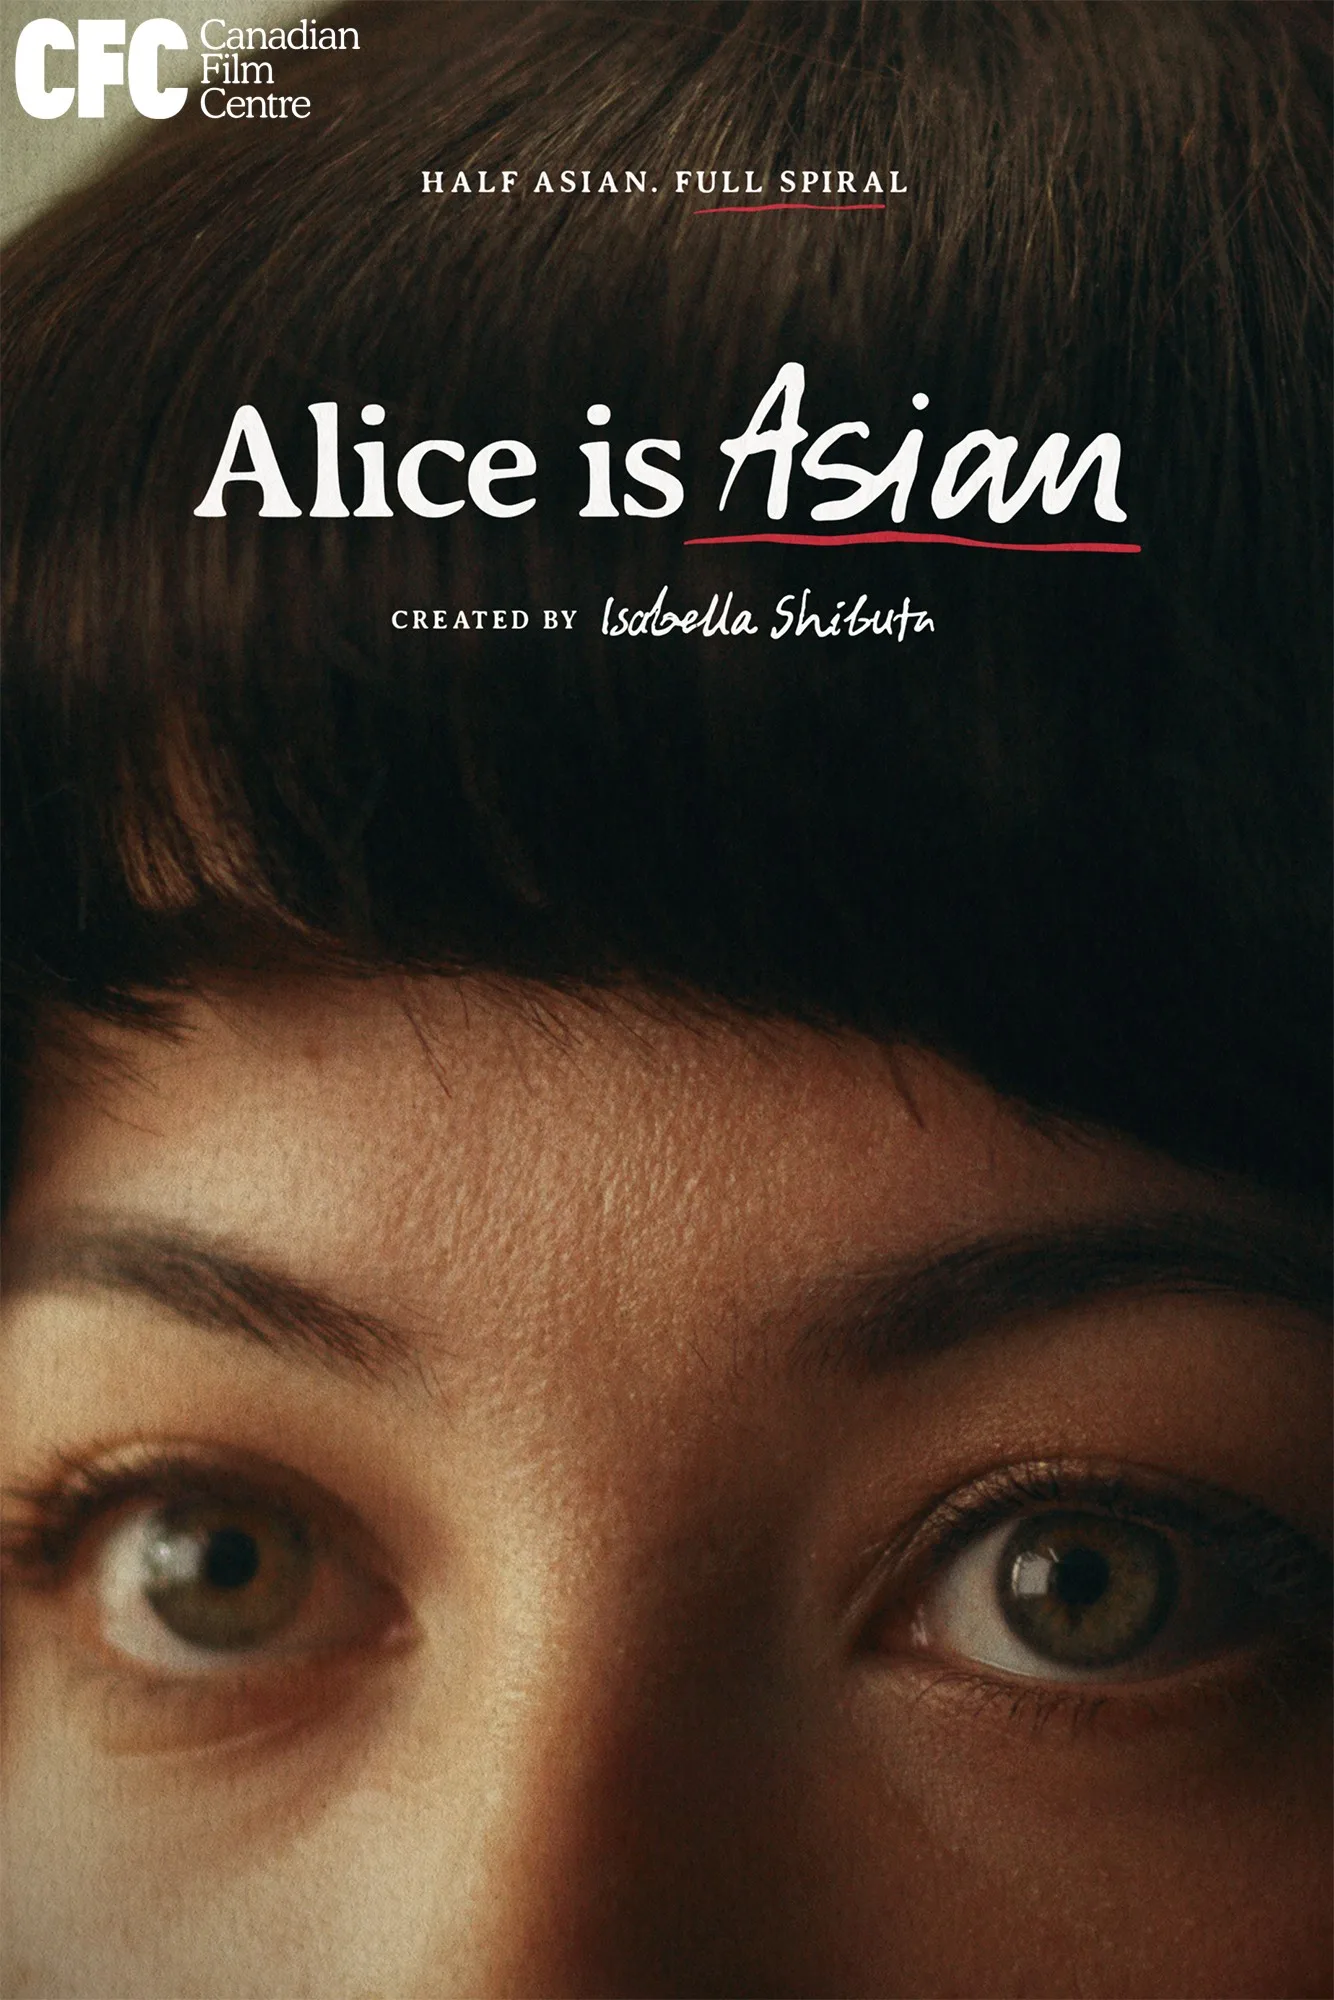
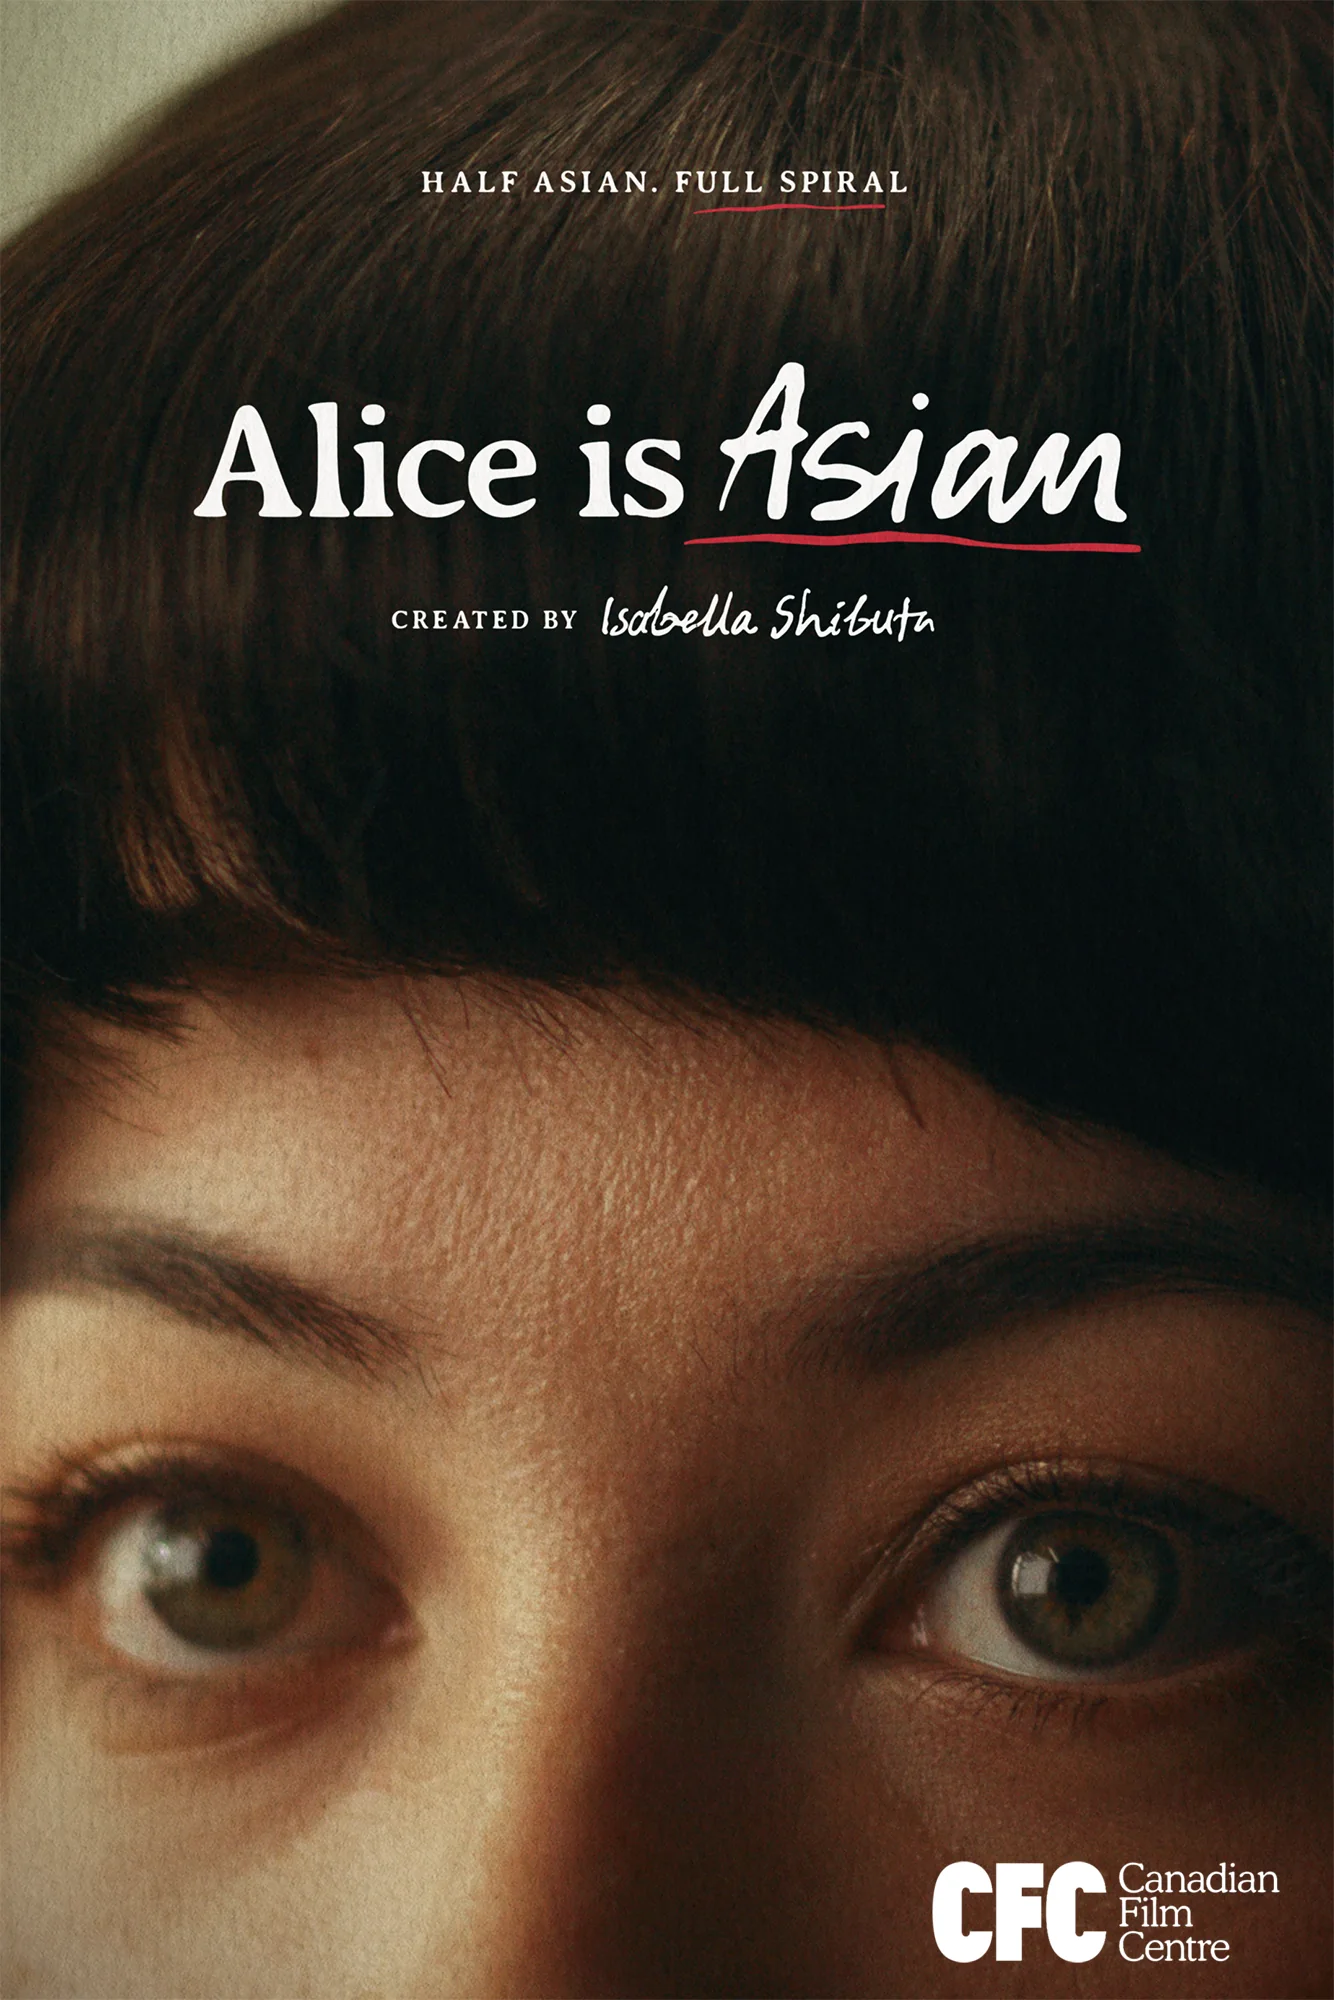
Update three posters and add three new projects
Refresh You Are Here (festival laurels), Alice is Asian (CFC logo) and
Cows Come Home (CSA laurels) with the latest artwork.

These posters carry credits at their top and bottom edges, which the
12/16 project tiles crop away. Add an optional posterPosition field so
individual posters can bias that crop and keep their laurels and logos
intact, leaving every other poster centred as before.

Add Go Live, A Family Affair and Undressing Them as poster-only entries.
Undressing Them's key art is landscape, so it uses a title-only crop in
the tile and the full wide version in the modal via posterFull. Make the
modal's Released row conditional so entries without credits render clean.

Changed region(s): [[0.6762, 0.93, 0.9528, 0.992], [0.0, 0.0, 0.2766, 0.062]]

diff --git a/src/components/ProjectsCarousel.jsx b/src/components/ProjectsCarousel.jsx
@@ -5,9 +5,28 @@ import { useEffect, useState } from "react";
 import PropTypes from "prop-types";
 
 const projectDetails = [
+    // Poster-only entries for now — no credits supplied yet.
+    {
+        poster: "GoLive_Poster",
+        title: "Go Live",
+    },
+    {
+        poster: "AFamilyAffair_Poster",
+        title: "A Family Affair",
+    },
+    {
+        poster: "UndressingThem_Poster",
+        title: "Undressing Them",
+        // Tiles are portrait, so they show a title-only crop; the modal has
+        // room for the full landscape key art with its credits.
+        posterFull: "UndressingThem_Full",
+    },
     {
         poster: "YouAreHere",
         title: "You Are Here",
+        // Laurels sit at the very top edge, and the 12/16 tiles crop a taller
+        // poster from both ends — anchor the crop up so they survive.
+        posterPosition: "top",
         released: "2025",
         director: "Spencer Lackey",
         producer: "Ryan Vergara",
@@ -102,6 +121,10 @@ const projectDetails = [
     {
         poster: "cowscomehome",
         title: "Cows Come Home",
+        // Title runs to the top edge and the CSA laurels to the bottom, so the
+        // 12/16 crop can't clear both — favour the laurels and let the
+        // hand-drawn title sit tight against the top.
+        posterPosition: "50% 58%",
         released: "2025",
         director: "Katie Uhlmann",
         producer: "David Carruthers (Executive Producer), Keri Ferencz (Executive Producer), Lindsey Middleton (Executive Producer), Katie Uhlmann (Executive Producer)",
@@ -184,6 +207,10 @@ const projectDetails = [
     {
         poster: "AiA_Poster_Final",
         title: "Alice is Asian",
+        // Tagline sits at the top and the CFC logo at the bottom, and the V3
+        // logo is close enough to the edge that the 12/16 crop can't clear
+        // both — this splits the 11px shortfall so neither is visibly cut.
+        posterPosition: "50% 80%",
         released: "2026",
         director: "Andrew Hamilton",
         writer: "Isabella Shibuta",
@@ -341,6 +368,9 @@ const collageOrder = [
     "The Bore",
     "The Dueback Hustle",
     "Noodles",
+    "Go Live",
+    "A Family Affair",
+    "Undressing Them",
     "Dimes",
     "When You Know You Know",
     "A great big terrible dream",
@@ -375,7 +405,8 @@ export function resolveImages() {
     return projectDetails.flatMap((project) => {
         const src = img_paths.find((x) => x.includes(project.poster));
         if (!src) return [];
-        return [{ ...project, posterSrc: src }];
+        const full = project.posterFull && img_paths.find((x) => x.includes(project.posterFull));
+        return [{ ...project, posterSrc: src, ...(full && { fullSrc: full }) }];
     });
 }
 
@@ -407,6 +438,7 @@ export function ProjectsCollage({ onClick }) {
                     <img
                         draggable="false"
                         className="aspect-[12/16] w-full object-cover transition-transform duration-300 ease-in-out hover:scale-105 select-none"
+                        style={img.posterPosition ? { objectPosition: img.posterPosition } : undefined}
                         src={img.posterSrc}
                         alt={img.title}
                     />
@@ -474,6 +506,7 @@ export function ProjectsCarousel(props) {
                                     <img
                                         draggable="false"
                                         className="aspect-12/16 h-[22rem] w-fit object-cover transition-transform duration-300 ease-in-out select-none hover:scale-105 md:max-w-48 lg:max-w-52 xl:max-w-56"
+                                        style={x.posterPosition ? { objectPosition: x.posterPosition } : undefined}
                                         src={x.posterSrc}
                                         alt={x.poster}
                                     />

diff --git a/src/components/home/Projects.jsx b/src/components/home/Projects.jsx
@@ -47,14 +47,16 @@ export function ProjectModal({ currentProject }) {
                     </button>
                 </form>
                 <div className="grid grid-cols-2 gap-3 md:gap-5">
-                    <img className="aspect-auto rounded-3xl" src={image.posterSrc} alt={image.poster} />
+                    <img className="aspect-auto rounded-3xl" src={project.fullSrc ?? image.posterSrc} alt={image.poster} />
                     <div className="flex flex-col items-center justify-center gap-2 align-middle md:gap-12">
                         <h3 className="text-primary text-xl font-bold tracking-widest uppercase md:text-4xl">{project.title}</h3>
                         <div className="flex w-full flex-col gap-5 text-xs font-semibold md:w-5/6 md:text-xl">
-                            <div className="flex w-full justify-between gap-3">
-                                <p className="w-2/5 shrink-0">Released:</p>
-                                <p className="w-3/5 text-left">{project.released}</p>
-                            </div>
+                            {project.released && (
+                                <div className="flex w-full justify-between gap-3">
+                                    <p className="w-2/5 shrink-0">Released:</p>
+                                    <p className="w-3/5 text-left">{project.released}</p>
+                                </div>
+                            )}
                             {project.writer && (
                                 <div className="flex w-full justify-between gap-3">
                                     <p className="w-2/5 shrink-0">{project.writer.includes(",") ? "Writers/Creators:" : "Writer/Creator:"}</p>
@@ -167,7 +169,8 @@ ProjectModal.propTypes = {
     currentProject: PropTypes.shape({
         project: PropTypes.shape({
             title: PropTypes.string.isRequired,
-            released: PropTypes.string.isRequired,
+            released: PropTypes.string,
+            fullSrc: PropTypes.string,
             writer: PropTypes.string,
             director: PropTypes.string,
             producer: PropTypes.string,

diff --git a/src/components/home/FeaturedPosters.jsx b/src/components/home/FeaturedPosters.jsx
@@ -139,6 +139,7 @@ function FeaturedPoster({ project, onOpen }) {
         >
             <img
                 className={`h-full w-full object-cover transition-opacity duration-300 select-none ${videoId && playing ? "opacity-0" : "opacity-100"}`}
+                style={project.posterPosition ? { objectPosition: project.posterPosition } : undefined}
                 draggable="false"
                 src={project.posterSrc}
                 alt={`${project.title} poster`}
